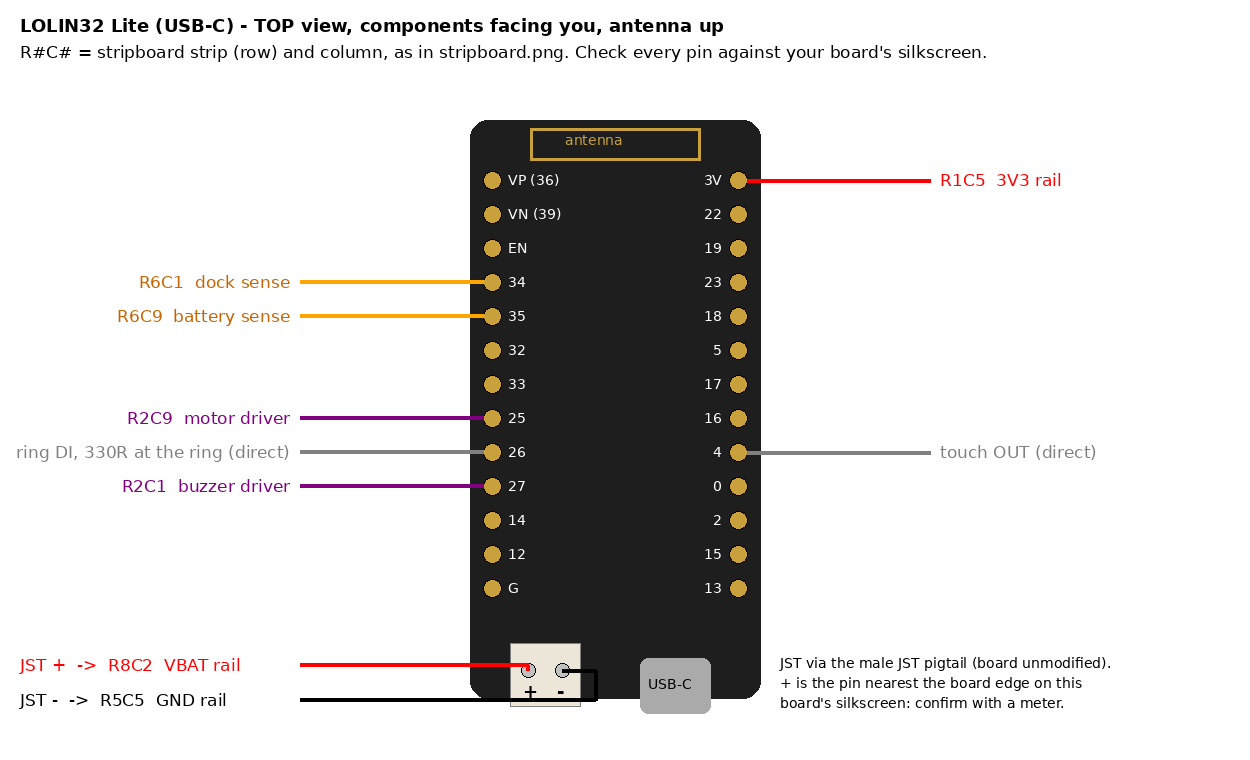
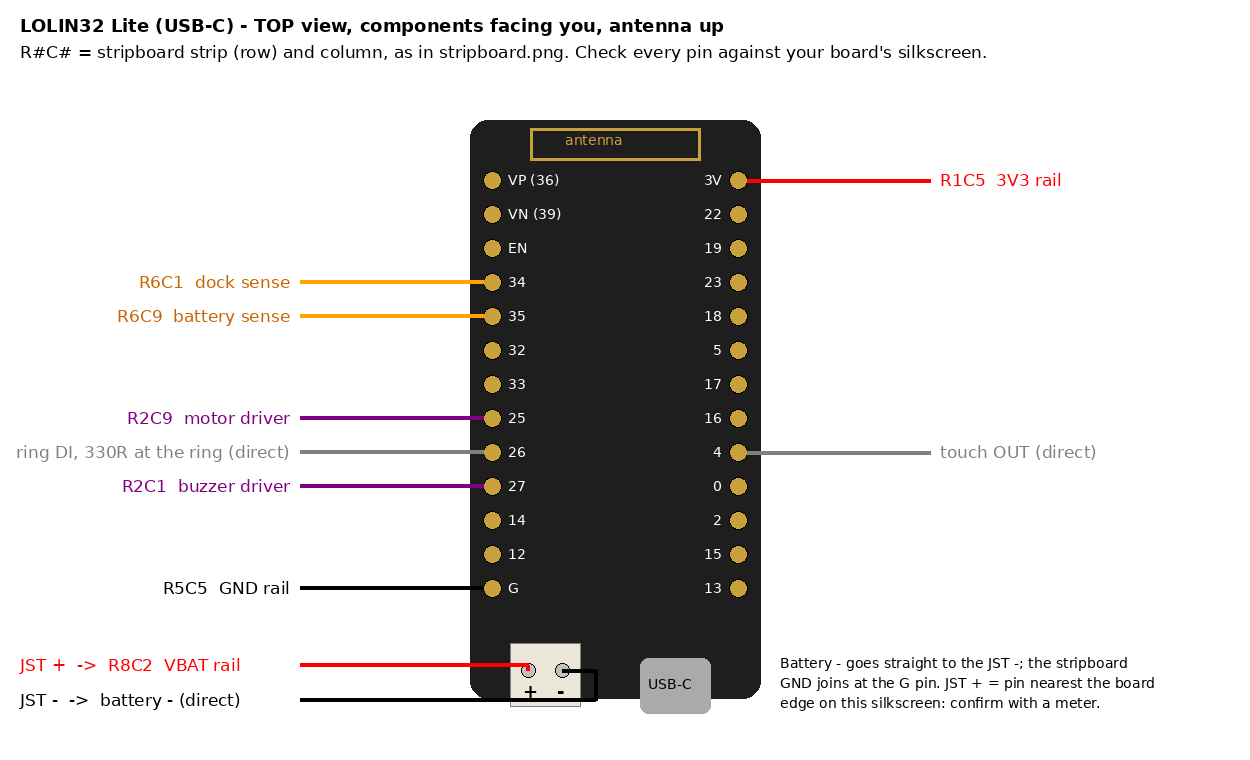
Stripboard / LOLIN wiring: battery - direct to the JST, stripboard GND to the LOLIN G pin
Claude-Session: https://claude.ai/code/session_016rvrxpLKBnY1fDA5ftg5XD

Changed region(s): [[0.624, 0.8474, 0.936, 0.9382], [0.1248, 0.7566, 0.3744, 0.7868], [0.0624, 0.9079, 0.1872, 0.9382]]

diff --git a/proto/lolin_wiring.py b/proto/lolin_wiring.py
@@ -11,7 +11,7 @@ WIRE = {
     "34": ("R6C1  dock sense", "orange"), "35": ("R6C9  battery sense", "orange"),
     "25": ("R2C9  motor driver", "purple"), "27": ("R2C1  buzzer driver", "purple"),
     "26": ("ring DI, 330R at the ring (direct)", "gray"),
-    "3V": ("R1C5  3V3 rail", "red"), "4": ("touch OUT (direct)", "gray"),
+    "3V": ("R1C5  3V3 rail", "red"), "G": ("R5C5  GND rail", "black"), "4": ("touch OUT (direct)", "gray"),
 }
 P = 34; BX0, BX1, TOP = 470, 760, 120
 W, H = 1250, 760
@@ -51,8 +51,8 @@ jy = y_last + 82
 d.line([BX0 + 58, jy, BX0 + 58, H - 95, 300, H - 95], fill="red", width=4)
 d.text((20, H - 105), "JST +  ->  R8C2  VBAT rail", font=f, fill="red")
 d.line([BX0 + 92, jy, BX0 + 125, jy, BX0 + 125, H - 60, 300, H - 60], fill="black", width=4)
-d.text((20, H - 70), "JST -  ->  R5C5  GND rail", font=f, fill="black")
-d.text((780, H - 105), "JST via the male JST pigtail (board unmodified).", font=fs, fill="black")
-d.text((780, H - 85), "+ is the pin nearest the board edge on this", font=fs, fill="black")
-d.text((780, H - 65), "board's silkscreen: confirm with a meter.", font=fs, fill="black")
+d.text((20, H - 70), "JST -  ->  battery - (direct)", font=f, fill="black")
+d.text((780, H - 105), "Battery - goes straight to the JST -; the stripboard", font=fs, fill="black")
+d.text((780, H - 85), "GND joins at the G pin. JST + = pin nearest the board", font=fs, fill="black")
+d.text((780, H - 65), "edge on this silkscreen: confirm with a meter.", font=fs, fill="black")
 img.save("lolin_wiring.png"); print("lolin_wiring.png", img.size)

diff --git a/proto/stripboard.py b/proto/stripboard.py
@@ -26,7 +26,7 @@ WIRES = [
     (1, 1, "touch VCC"), (4, 1, "buzzer +"), (5, 1, "LOLIN 3V pin"), (6, 1, "ring VCC"), (9, 1, "motor +"),
     (1, 2, "from GPIO 27"), (9, 2, "from GPIO 25"),
     (1, 3, "buzzer -"), (9, 3, "motor -"),
-    (1, 5, "pogo GND (top + bottom joined at the pogos)"), (2, 5, "battery - (female JST pigtail)"), (5, 5, "LOLIN JST - (male JST pigtail)"), (7, 5, "touch GND"), (9, 5, "ring GND"),
+    (1, 5, "pogo GND (top + bottom joined at the pogos)"), (5, 5, "LOLIN G pin (left header, bottom)"), (7, 5, "touch GND"), (9, 5, "ring GND"),
     (1, 6, "to GPIO 34"), (9, 6, "to GPIO 35"),
     (1, 7, "pogo 5V (top + bottom joined at the pogos)"), (9, 7, "USB-C pigtail VBUS"),
     (1, 8, "battery + via switch"), (2, 8, "LOLIN JST + (male JST pigtail)"),
